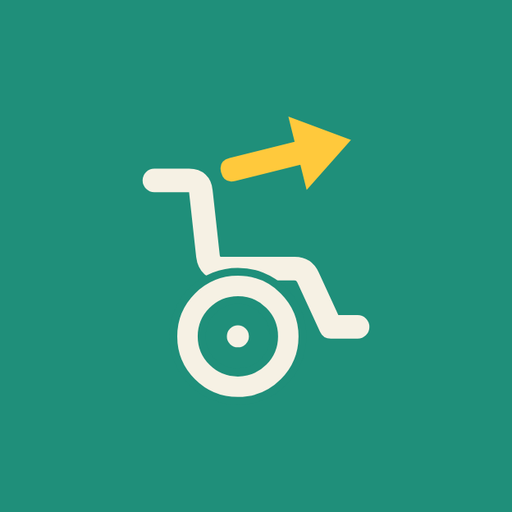
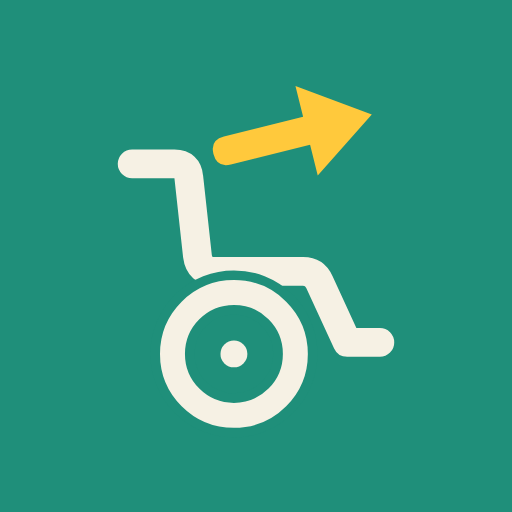
Icônes pleine surface : plus de cadre blanc ni de « V » à l'ajout sur l'écran d'accueil
- Icône maskable = même image pleine, sans marge intérieure
- Lien apple-touch-icon sans taille en premier, copies à la racine du site
- Adresses versionnées (v3) pour contourner le cache d'icônes

Changed region(s): [[0.2188, 0.1562, 0.7812, 0.8438]]

diff --git a/index.html b/index.html
@@ -7,12 +7,13 @@
 <meta name="description" content="Guidage piéton accessible — Gennevilliers et Ouagadougou">
 <meta name="theme-color" content="#E8F4F8" media="(prefers-color-scheme: light)">
 <meta name="theme-color" content="#0A1622" media="(prefers-color-scheme: dark)">
-<link rel="manifest" href="manifest.webmanifest">
-<link rel="icon" type="image/png" href="icons/favicon-32.png?v=2">
-<link rel="apple-touch-icon" sizes="180x180" href="icons/apple-touch-icon.png?v=2">
-<link rel="apple-touch-icon" sizes="167x167" href="icons/apple-touch-icon-167.png?v=2">
-<link rel="apple-touch-icon" sizes="152x152" href="icons/apple-touch-icon-152.png?v=2">
-<link rel="apple-touch-icon" sizes="120x120" href="icons/apple-touch-icon-120.png?v=2">
+<link rel="manifest" href="manifest.webmanifest?v=3">
+<link rel="icon" type="image/png" href="icons/favicon-32.png?v=3">
+<link rel="apple-touch-icon" href="icons/apple-touch-icon.png?v=3">
+<link rel="apple-touch-icon" sizes="180x180" href="icons/apple-touch-icon-180.png?v=3">
+<link rel="apple-touch-icon" sizes="167x167" href="icons/apple-touch-icon-167.png?v=3">
+<link rel="apple-touch-icon" sizes="152x152" href="icons/apple-touch-icon-152.png?v=3">
+<link rel="apple-touch-icon" sizes="120x120" href="icons/apple-touch-icon-120.png?v=3">
 <meta name="apple-mobile-web-app-capable" content="yes">
 <meta name="mobile-web-app-capable" content="yes">
 <meta name="apple-mobile-web-app-status-bar-style" content="black-translucent">
@@ -25,7 +26,7 @@
 try {
   const logo = JSON.parse(localStorage.getItem("va-logo"));
   if (["soleil", "nuit", "pastille"].includes(logo)) {
-    document.querySelector('link[rel="manifest"]').href = `manifest-${logo}.webmanifest`;
+    document.querySelector('link[rel="manifest"]').href = `manifest-${logo}.webmanifest?v=3`;
     document.querySelectorAll('link[rel="apple-touch-icon"], link[rel="icon"]').forEach(l => {
       l.href = l.getAttribute("href").replace("icons/", `icons/logos/${logo}/`);
     });

diff --git a/js/app.js b/js/app.js
@@ -231,7 +231,7 @@ function setLogo(k) {
   S.logo = LOGOS[k] ? k : "vert";
   store.set("va-logo", S.logo);
   // l'iPhone et Android lisent ces liens au moment d'ajouter l'appli à l'écran d'accueil
-  document.querySelector('link[rel="manifest"]').href = S.logo === "vert" ? "manifest.webmanifest" : `manifest-${S.logo}.webmanifest`;
+  document.querySelector('link[rel="manifest"]').href = (S.logo === "vert" ? "manifest.webmanifest" : `manifest-${S.logo}.webmanifest`) + "?v=3";
   document.querySelectorAll('link[rel="apple-touch-icon"], link[rel="icon"]').forEach(l => {
     l.href = logoDir() + l.getAttribute("href").split("/").pop();
   });

diff --git a/sw.js b/sw.js
@@ -1,6 +1,6 @@
 // Service worker : l'appli et le plan de Gennevilliers fonctionnent hors ligne.
 // Changer VERSION à chaque publication (le cache hors ligne est alors renouvelé).
-const VERSION = "vision-ar-v46";
+const VERSION = "vision-ar-v47";
 const MAX_TILES = 600;
 const APP = [
   "./", "index.html", "manifest.webmanifest", "css/app.css", "js/app.js", "js/routing.js", "js/ar.js", "js/icons.js", "js/auth.js", "js/stickers.js",
